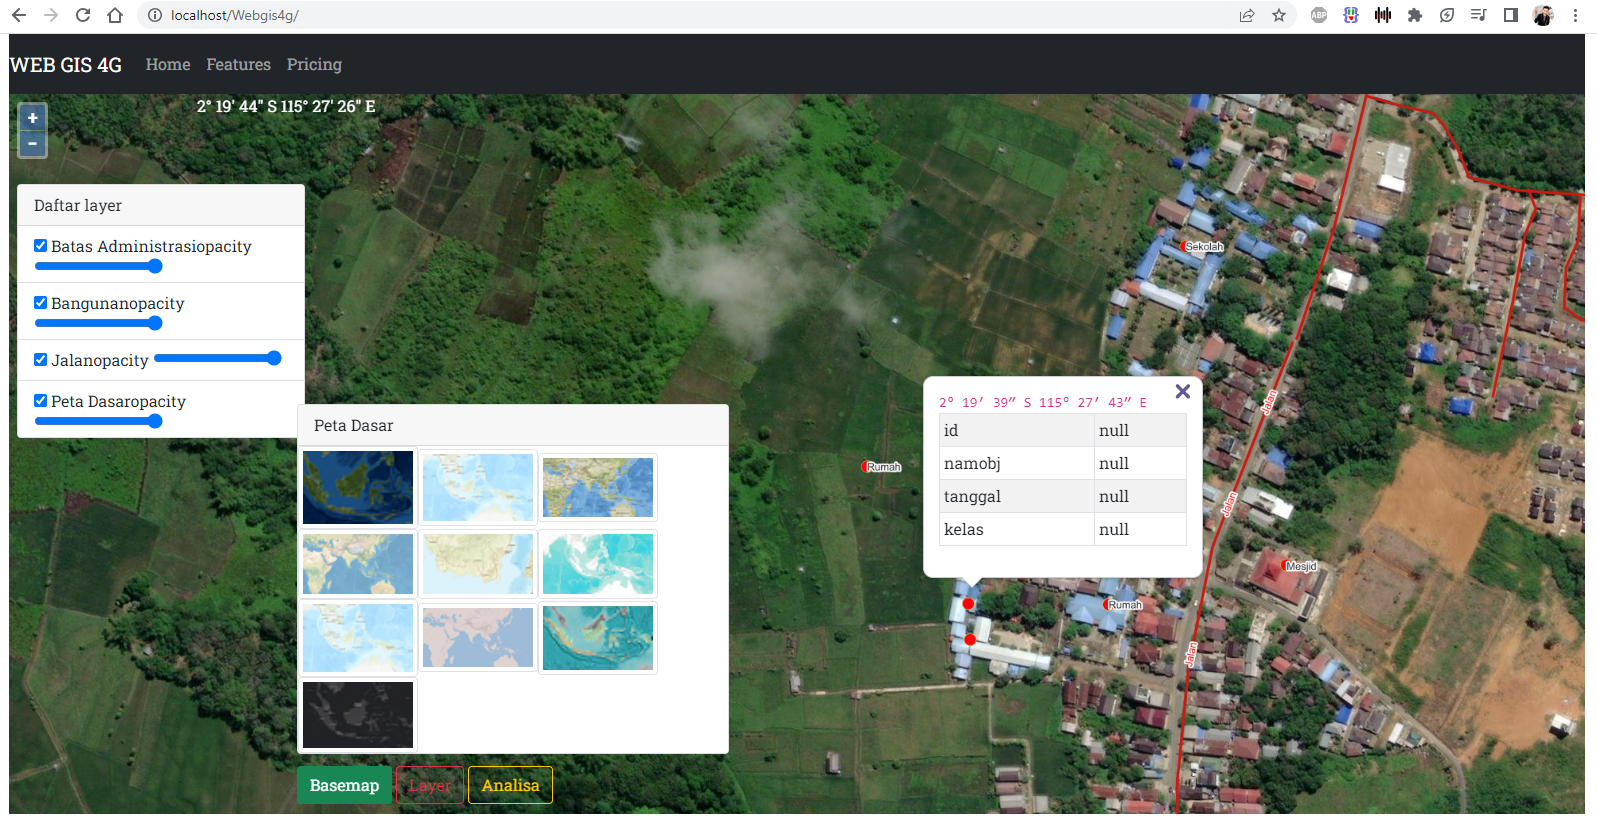
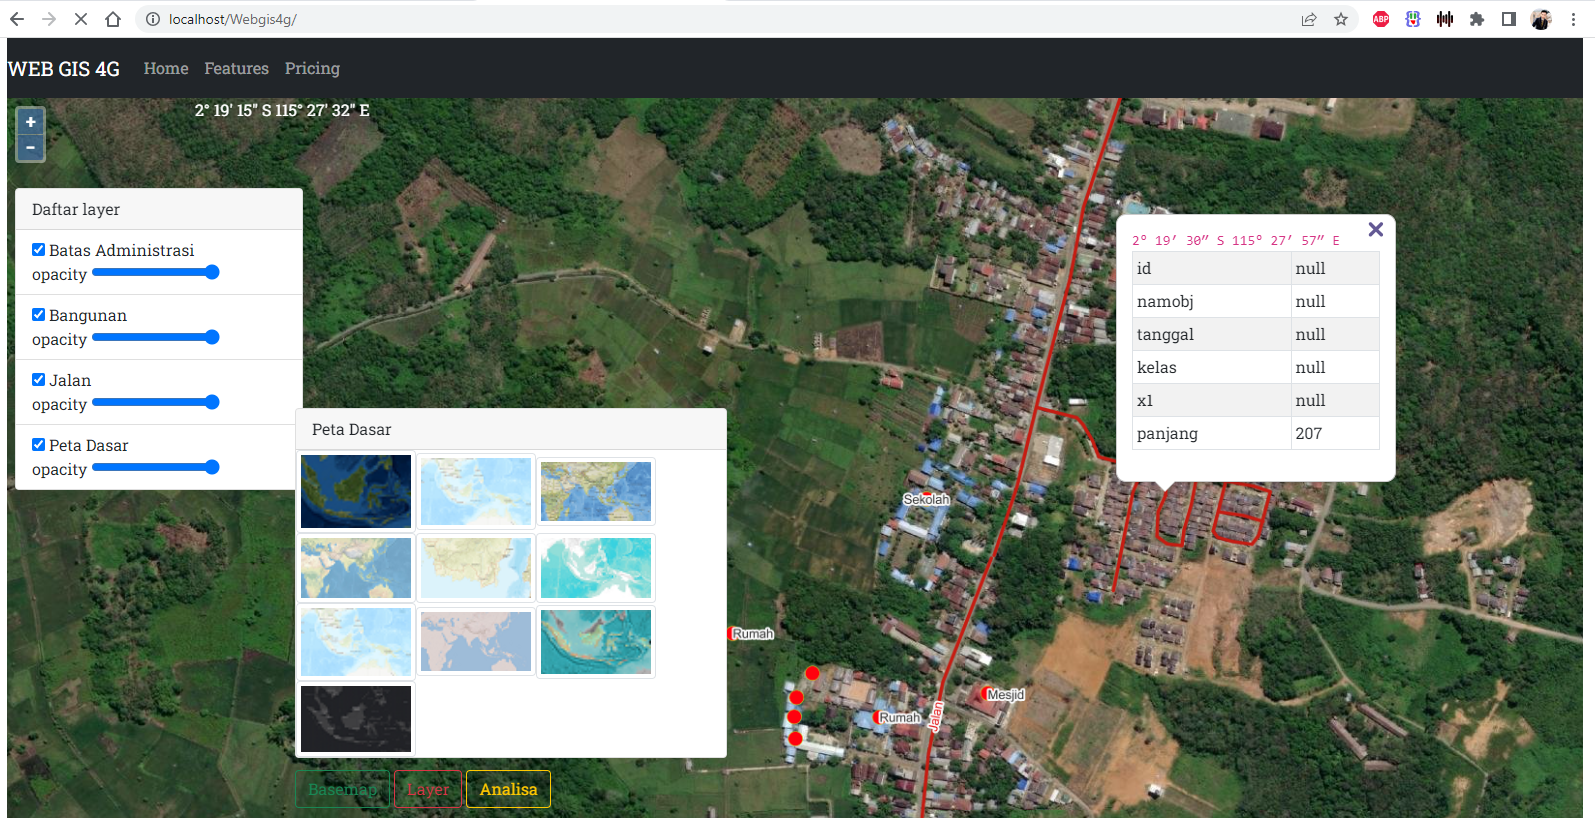
Menambahkan deskripsi code

diff --git a/index.php b/index.php
@@ -287,7 +287,7 @@ map.on('singleclick', function (evt) {
 function LoadDaftarLayer(){
   var n =0;
   map.getLayers().forEach(function(Layer){
-      var Ly = '<li class="list-group-item" id="layer'+n+'_LI"><input type="checkbox" id="layer'+n+'_VBS" > '+Layer.get("nama")+'opacity <input id="layer'+n+'_OPC" class="opacity" type="range" min="0" max="1" step="0.01"/></li>';
+      var Ly = '<li class="list-group-item" id="layer'+n+'_LI"><input type="checkbox" id="layer'+n+'_VBS" > '+Layer.get("nama")+'<br/>opacity <input id="layer'+n+'_OPC" class="opacity" type="range" min="0" max="1" step="0.01"/></li>';
 	  
 	  document.getElementById("LayerTree").innerHTML = Ly + document.getElementById("LayerTree").innerHTML 
 	  n++;
